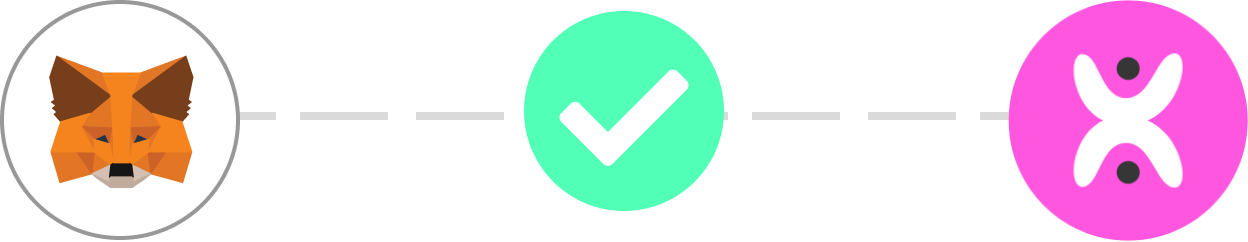
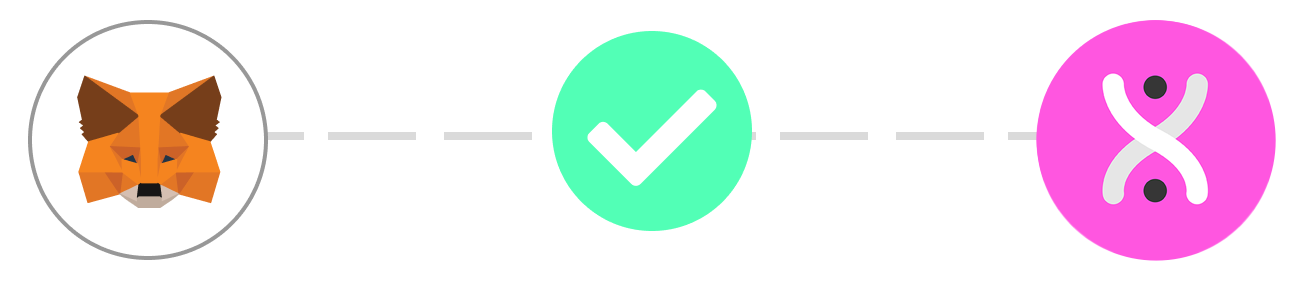
feat: change degenics image dll in app.

diff --git a/src/views/Login/index.vue b/src/views/Login/index.vue
@@ -7,33 +7,39 @@
     </v-app-bar> -->
     <v-main class="login-main">
       <v-container fill-height>
-        <div style="margin: 0 auto;">
-          <div class="d-flex justify-center">
-            <!-- <a href="https://www.degenics.com/" target="_blank"> -->
-            <v-img src="@/assets/debio-logo-words-grey.png" max-width="40%" />
-            <!-- </a> -->
-          </div>
-
-          <div class="d-flex justify-center white--text text-lg-h6 mt-3">
-            The Privacy-First Platform for Personal Genetic Testing
-          </div>
-
-          <div class="d-flex justify-center mt-10">
-            <v-col lg="3" md="5" sm="8">
-              <Button
-                color="white"
-                elevation="2"
-                @click="onGenerateAccount"
-                dark
-              >
-                <div class="primary--text">Create Account</div>
-              </Button>
-            </v-col>
-            <v-col lg="3" md="5" sm="8">
-              <Button @click="openSignIn" elevation="2" dark> Sign In </Button>
-            </v-col>
-          </div>
-        </div>
+        <v-row align="center">
+          <v-col cols="12" lg="12" md="12" sm="12">
+            <v-row class="justify-center">
+              <v-col cols="12" lg="5" md="5" sm="5" align="center">
+                <v-img src="@/assets/debio-logo-words-grey.png" />
+              </v-col>
+            </v-row>
+            <v-row>
+              <v-col cols="12" lg="12" md="12" sm="12" align="center">
+                <div class="white--text text-lg-h6 mt-3">
+                  The Privacy-First Platform for Personal Genetic Testing
+                </div>
+              </v-col>
+            </v-row>
+            <v-row class="justify-center mt-10 align-center">
+              <v-col cols="12" lg="3" md="5" sm="8" align="center">
+                <Button
+                  color="white"
+                  elevation="2"
+                  @click="onGenerateAccount"
+                  dark
+                >
+                  <div class="primary--text">Create Account</div>
+                </Button>
+              </v-col>
+              <v-col cols="12" lg="3" md="5" sm="8" align="center">
+                <Button @click="openSignIn" elevation="2" dark>
+                  Sign In
+                </Button>
+              </v-col>
+            </v-row>
+          </v-col>
+        </v-row>
       </v-container>
 
       <DialogSelectUserLogin

diff --git a/src/views/SelectRole/index.vue b/src/views/SelectRole/index.vue
@@ -2,15 +2,22 @@
   <v-app>
     <v-main class="login-main">
       <v-container fill-height>
-        <div style="margin: 0 auto;">
-          <div class="d-flex justify-center">
-            <v-img src="@/assets/debio-logo-words-grey.png" max-width="40%" />
-          </div>
-
-          <div class="d-flex justify-center white--text text-lg-h6 mt-3">
-            The Privacy-First Platform for Personal Genetic Testing
-          </div>
-        </div>
+        <v-row align="center">
+          <v-col cols="12" lg="12" md="12" sm="12">
+            <v-row class="justify-center">
+              <v-col cols="12" lg="5" md="5" sm="5" align="center">
+                <v-img src="@/assets/debio-logo-words-grey.png" />
+              </v-col>
+            </v-row>
+            <v-row>
+              <v-col cols="12" lg="12" md="12" sm="12" align="center">
+                <div class="white--text text-lg-h6 mt-3">
+                  The Privacy-First Platform for Personal Genetic Testing
+                </div>
+              </v-col>
+            </v-row>
+          </v-col>
+        </v-row>
       </v-container>
 
       <DialogSelectRole

diff --git a/src/components/WalletBinding.vue b/src/components/WalletBinding.vue
@@ -49,9 +49,9 @@
 
         <div class="mt-10 mb-10 ml-10 mr-10" v-if="putAccount">
           <div align="center" class="align-center mb-2">
-            <v-img src="@/assets/degenics-logo.png" max-width="50" />
+            <v-img src="@/assets/debio-logo.png" max-width="50" />
           </div>
-          <div align="center" class="align-center mb-5">Degenics</div>
+          <div align="center" class="align-center mb-5">DeBio</div>
           <div align="center" class="align-center mb-2">Select account(s)</div>
           <div v-for="account in accountList" :key="account.address">
             <v-card

diff --git a/src/views/Dashboard/index.vue b/src/views/Dashboard/index.vue
@@ -13,12 +13,12 @@
                 alt="Vuetify Logo"
                 class="shrink mr-2"
                 contain
-                src="@/assets/degenics-logo.png"
+                src="@/assets/debio-logo.png"
                 transition="scale-transition"
                 width="40"
               />
               <div class="text-h6 font-weight-bold light_primary--text">
-                Debio {{ isLab ? 'Lab' : '' }}
+                DeBio {{ isLab ? 'Lab' : '' }}
               </div>
             </div>
           </a>

diff --git a/src/views/Dashboard/Hospital/NavigationLayout.vue b/src/views/Dashboard/Hospital/NavigationLayout.vue
@@ -12,12 +12,12 @@
               alt="Vuetify Logo"
               class="shrink mr-2"
               contain
-              src="@/assets/degenics-logo.png"
+              src="@/assets/debio-logo.png"
               transition="scale-transition"
               width="40"
             />
             <div class="text-h6 font-weight-bold light_primary--text">
-              Debio {{ isHospital ? "Hospital" : "" }}
+              DeBio {{ isHospital ? "Hospital" : "" }}
             </div>
           </div>
         </a>

diff --git a/src/views/Dashboard/Doctor/NavigationLayout.vue b/src/views/Dashboard/Doctor/NavigationLayout.vue
@@ -12,12 +12,12 @@
               alt="Vuetify Logo"
               class="shrink mr-2"
               contain
-              src="@/assets/degenics-logo.png"
+              src="@/assets/debio-logo.png"
               transition="scale-transition"
               width="40"
             />
             <div class="text-h6 font-weight-bold light_primary--text">
-              Debio {{ isDoctor ? "Doctor" : "" }}
+              DeBio {{ isDoctor ? "Doctor" : "" }}
             </div>
           </div>
         </a>

diff --git a/src/views/Dashboard/Customer/index.vue b/src/views/Dashboard/Customer/index.vue
@@ -12,12 +12,12 @@
               alt="Vuetify Logo"
               class="shrink mr-2"
               contain
-              src="@/assets/degenics-logo.png"
+              src="@/assets/debio-logo.png"
               transition="scale-transition"
               width="40"
             />
             <div class="text-h6 font-weight-bold light_primary--text">
-              Debio {{ isLab ? "Lab" : "" }}
+              DeBio {{ isLab ? "Lab" : "" }}
             </div>
           </div>
         </a>

diff --git a/src/views/Dashboard/Lab/NavigationLayout.vue b/src/views/Dashboard/Lab/NavigationLayout.vue
@@ -12,12 +12,12 @@
               alt="Vuetify Logo"
               class="shrink mr-2"
               contain
-              src="@/assets/degenics-logo.png"
+              src="@/assets/debio-logo.png"
               transition="scale-transition"
               width="40"
             />
             <div class="text-h6 font-weight-bold light_primary--text">
-              Debio {{ isLab ? "Lab" : "" }}
+              DeBio {{ isLab ? "Lab" : "" }}
             </div>
           </div>
         </a>

diff --git a/src/views/Dashboard/Lab/OrderHistory/ProcessOrder/ProcessSpecimen/index.vue b/src/views/Dashboard/Lab/OrderHistory/ProcessOrder/ProcessSpecimen/index.vue
@@ -126,7 +126,7 @@
       </template>
       <template v-slot:body>
         <div class="d-flex justify-center pb-5 pt-5">
-          <v-img v-bind:src="require('@/assets/degenics-logo.png')" max-width="50" />
+          <v-img v-bind:src="require('@/assets/debio-logo.png')" max-width="50" />
         </div>
         <div align="center" class="pb-5">Are you sure you want to reject specimen?</div>
       </template>

diff --git a/src/views/Dashboard/Customer/OrderHistoryDetail/index.vue b/src/views/Dashboard/Customer/OrderHistoryDetail/index.vue
@@ -45,7 +45,7 @@
                       {{ service.info.image }}
                     </v-icon>
                     <v-avatar v-else>
-                      <img src="../../../../assets/degenics-logo.png" />
+                      <img src="../../../../assets/debio-logo.png" />
                     </v-avatar>
                   </div>
                   <div class="ml-5">

diff --git a/src/views/Dashboard/Customer/RequestTestReceipt.vue b/src/views/Dashboard/Customer/RequestTestReceipt.vue
@@ -45,7 +45,7 @@
                       {{ receipt.productDetail.icon }}
                     </v-icon>
                     <v-avatar v-else>
-                      <img src="@/assets/degenics-logo.png" />
+                      <img src="@/assets/debio-logo.png" />
                     </v-avatar>
                   </div>
                   <div class="ml-5">

diff --git a/src/components/MenuCard/index.vue b/src/components/MenuCard/index.vue
@@ -12,7 +12,7 @@
                   {{ icon }}
                </v-icon>
                <v-avatar v-else>
-                  <img src="../../assets/degenics-logo.png" />
+                  <img src="../../assets/debio-logo.png" />
                </v-avatar>
             </div>
          </div>
